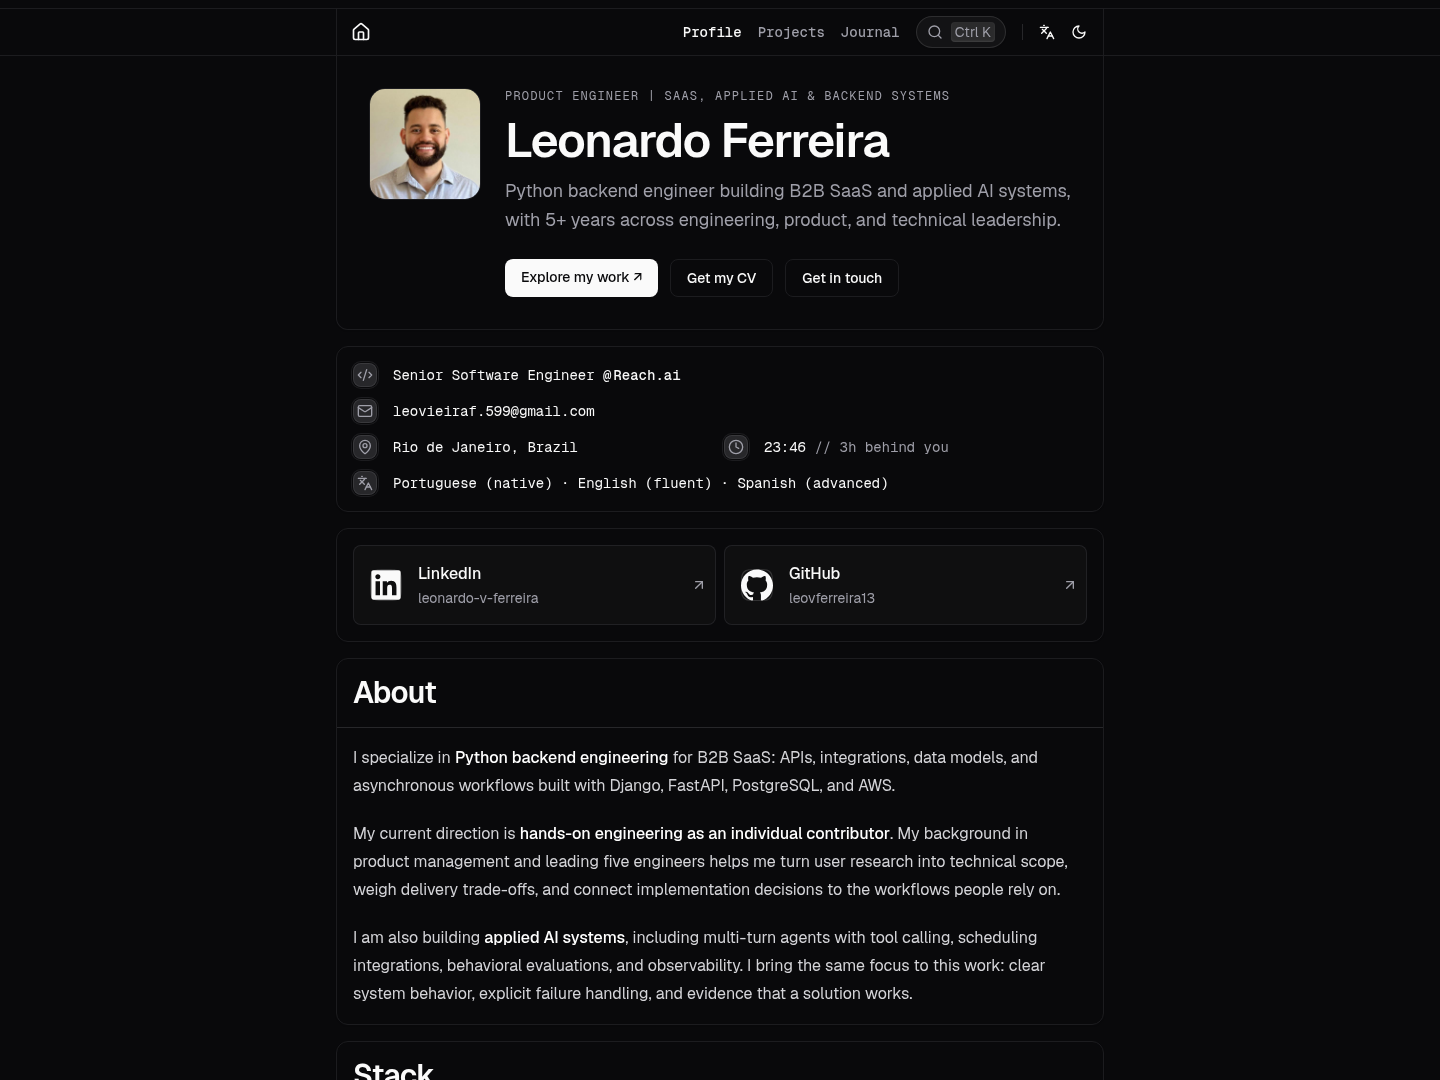
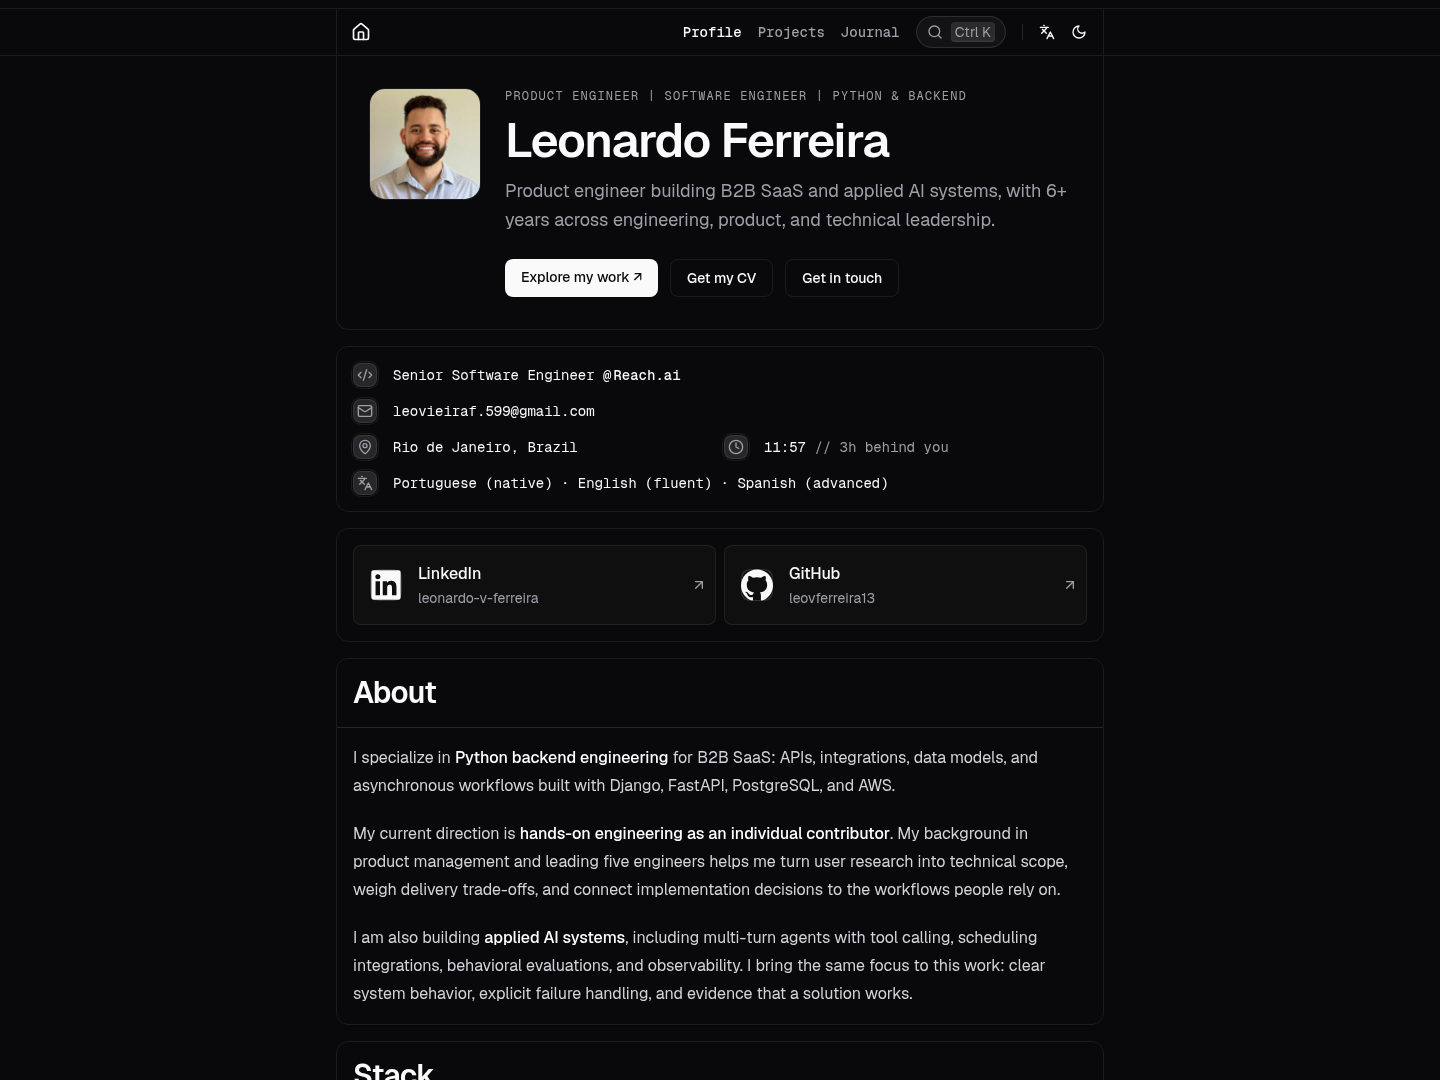
fix(portfolio): update profile headline and summary

diff --git a/src/features/portfolio/data/user.ts b/src/features/portfolio/data/user.ts
@@ -8,7 +8,7 @@ export const USER: User = {
   username: "leovferreira13",
   gender: "male",
   pronouns: "he/him",
-  bio: "Product Engineer specializing in Python backend systems for B2B SaaS and applied AI, with 5+ years across engineering, product, and technical leadership.",
+  bio: "Product engineer building B2B SaaS and applied AI systems, with 6+ years across engineering, product, and technical leadership.",
   flipSentences: ["Product Engineer", "Backend, data & applied AI"],
   address: "Rio de Janeiro, Brazil",
   email: "bGVvdmllaXJhZi41OTlAZ21haWwuY29t",

diff --git a/src/features/portfolio/components/profile-header.tsx b/src/features/portfolio/components/profile-header.tsx
@@ -23,7 +23,7 @@ export async function ProfileHeader() {
         />
         <div className="min-w-0 flex-1">
           <p className="mb-3 font-mono text-xs tracking-widest text-muted-foreground uppercase">
-            Product Engineer | SaaS, Applied AI &amp; Backend Systems
+            Product Engineer | Software Engineer | Python &amp; Backend
           </p>
           <h1
             id="profile-title"
